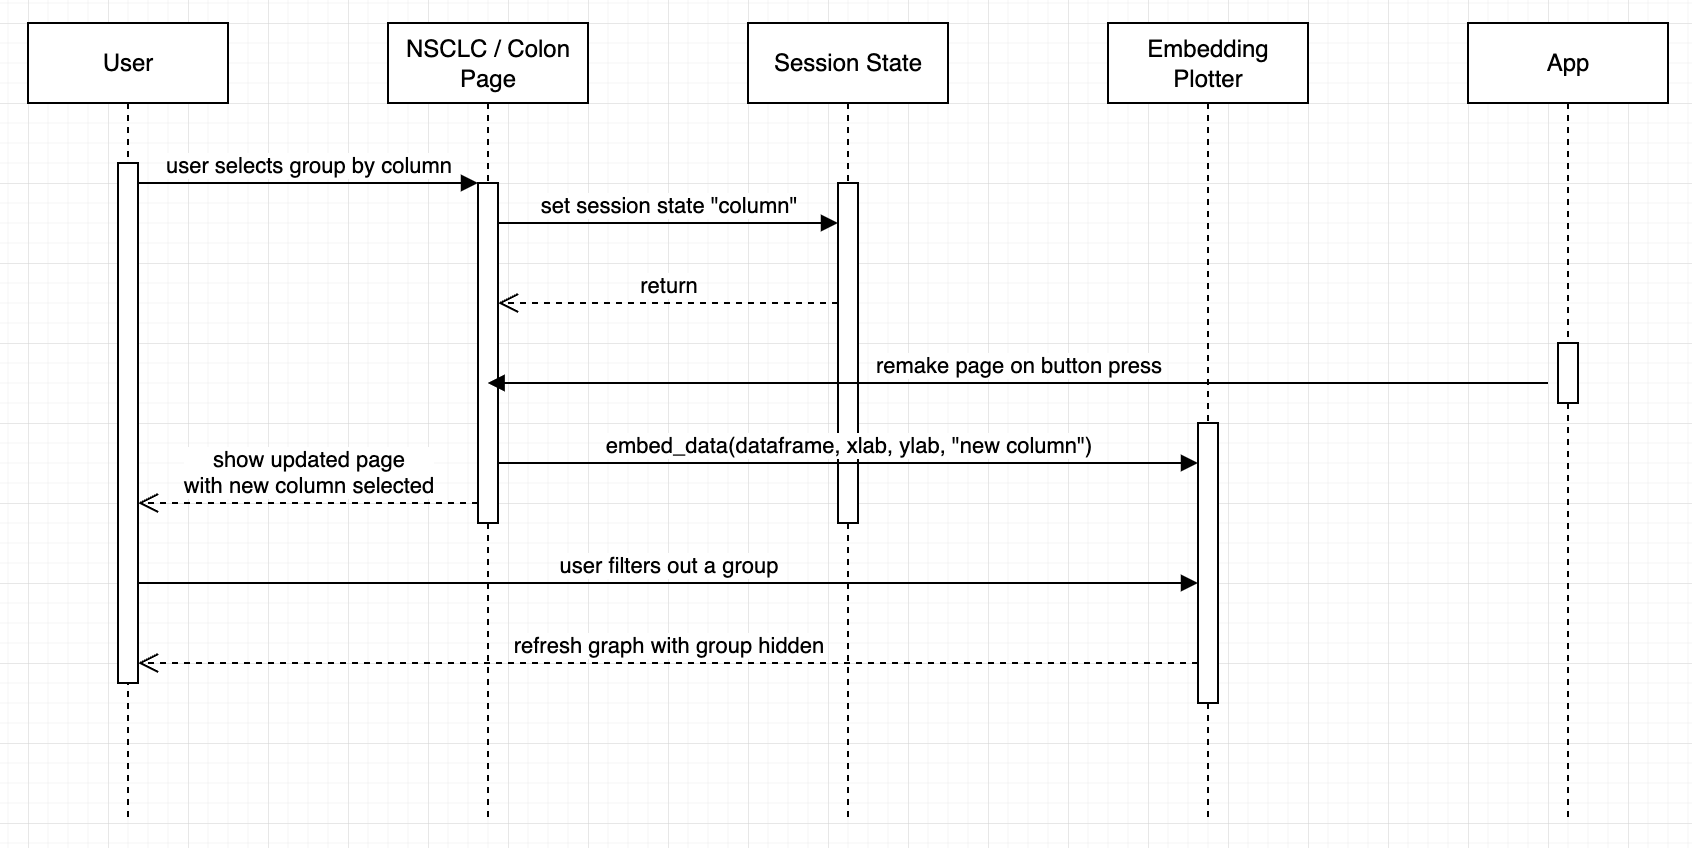
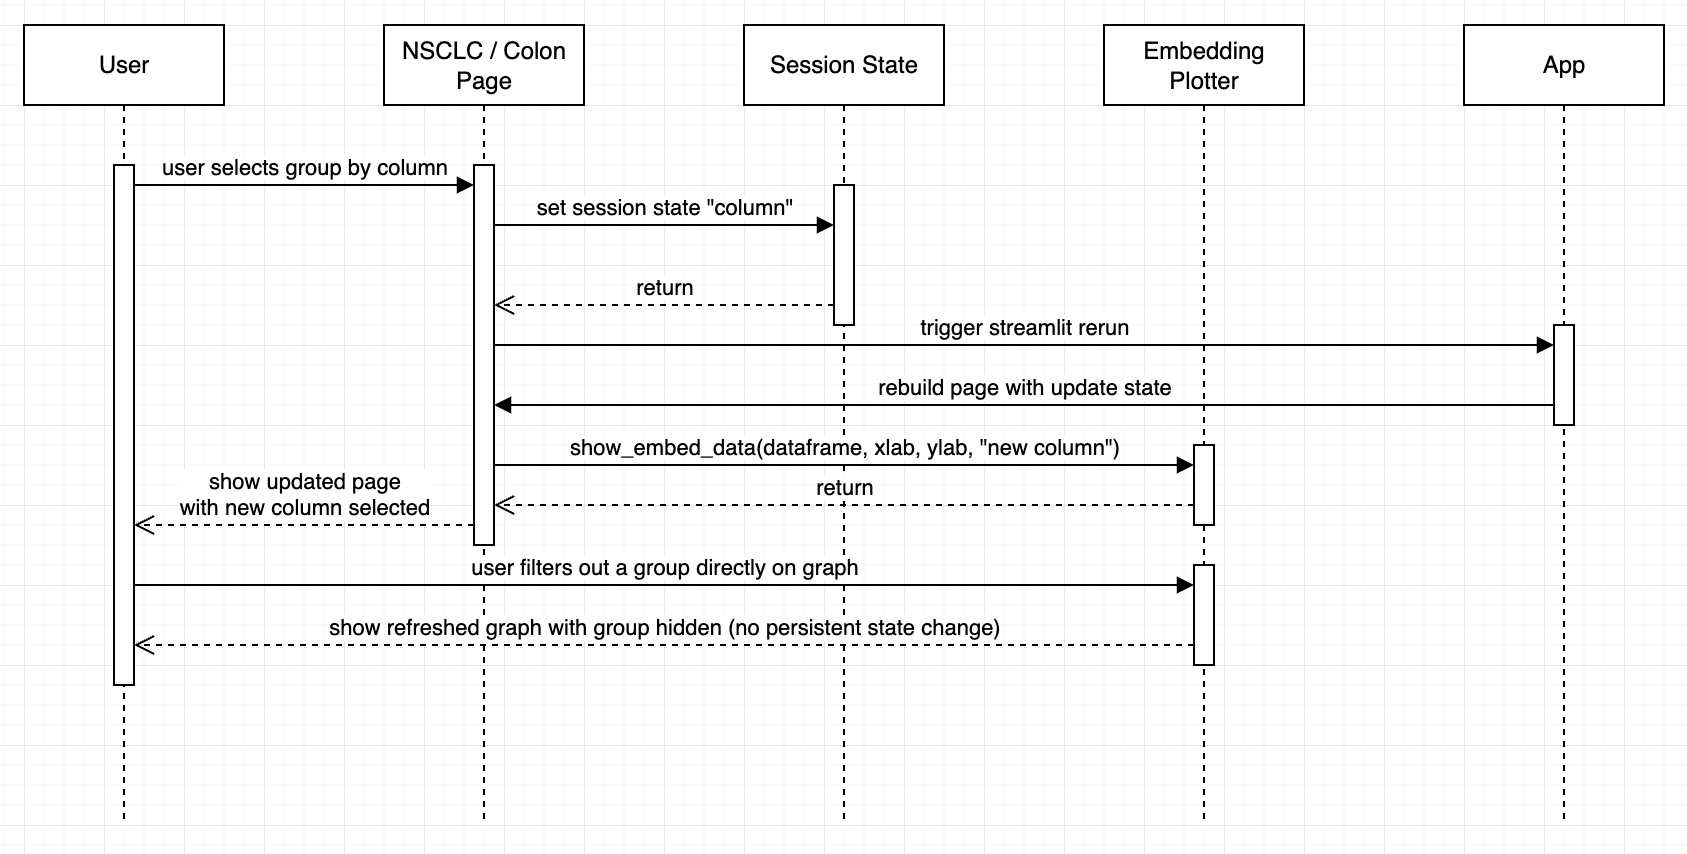
Update flow diagrams

diff --git a/docs/component_specification.md b/docs/component_specification.md
@@ -150,7 +150,6 @@ This diagram shows how new data would be embedded for both the use case of a doc
 ![Uploading sample sequence diagram](./assets/upload-flow.png  "Upload sequence diagram")
 
 ## Maintainer Flow
-This diagram shows at a high level what components are needed to maintian and extend the app for the maintainer use case.
+This diagram shows at a high level what steps are needed to maintian and extend the app for the maintainer use case.
 
-TODO add this picture
-<!-- ![Maintenance sequence diagram](./assets/maintainer-flow.png  "Maintainer sequence diagram") -->
+![Maintenance sequence diagram](./assets/maintainer-flow.png  "Maintainer sequence diagram")
